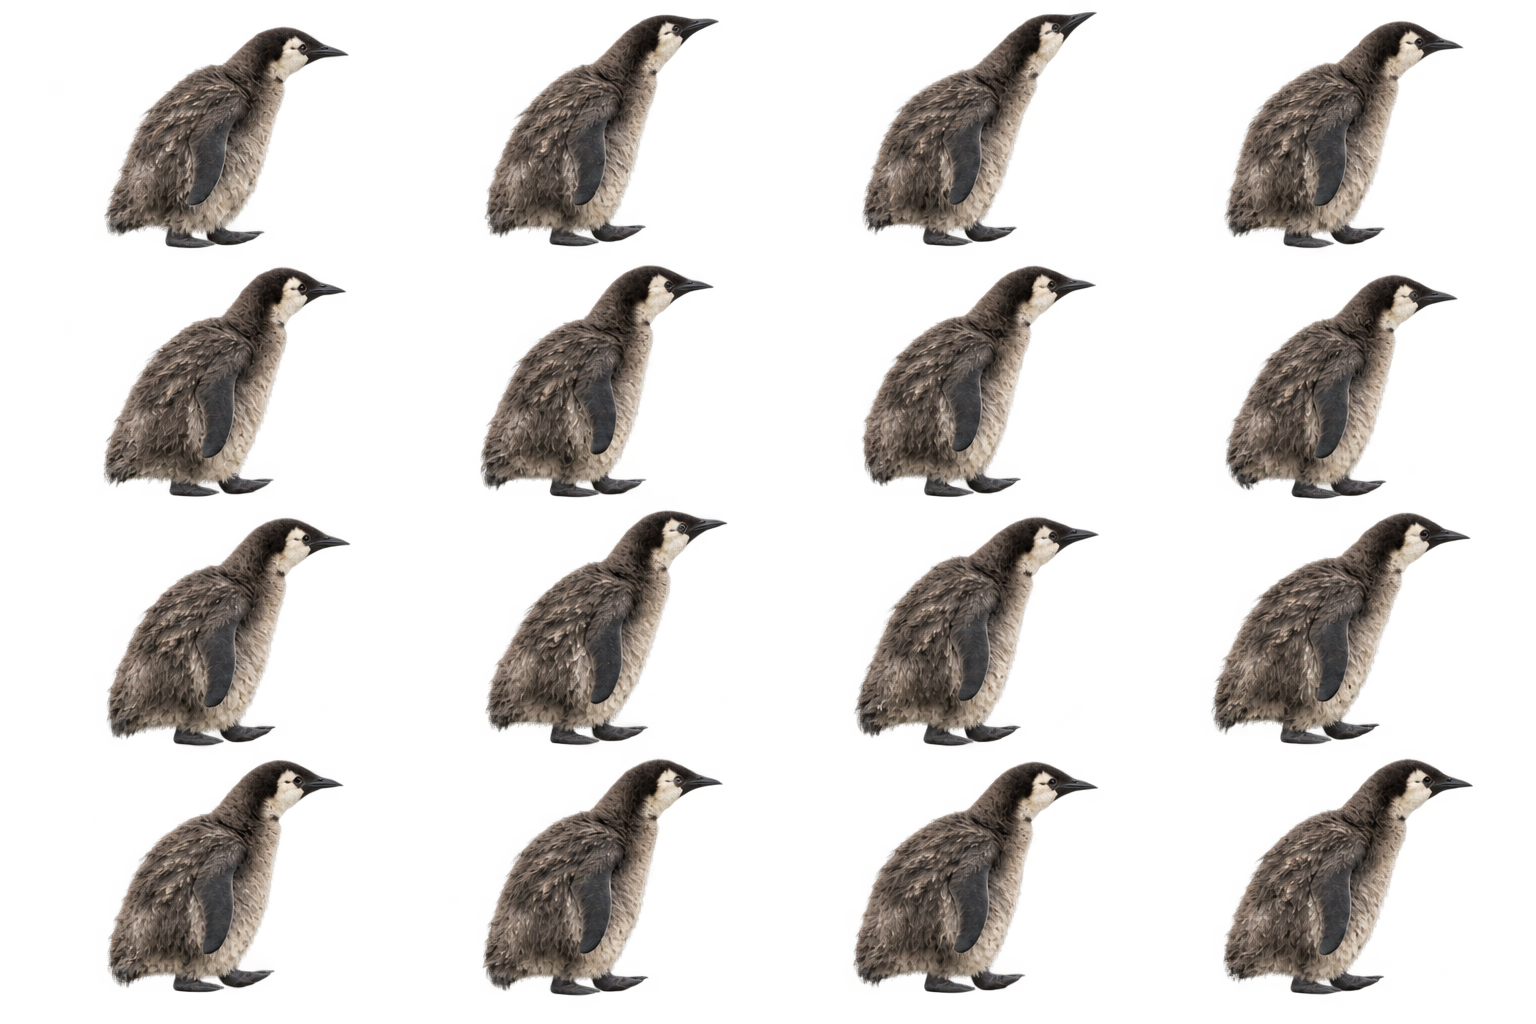
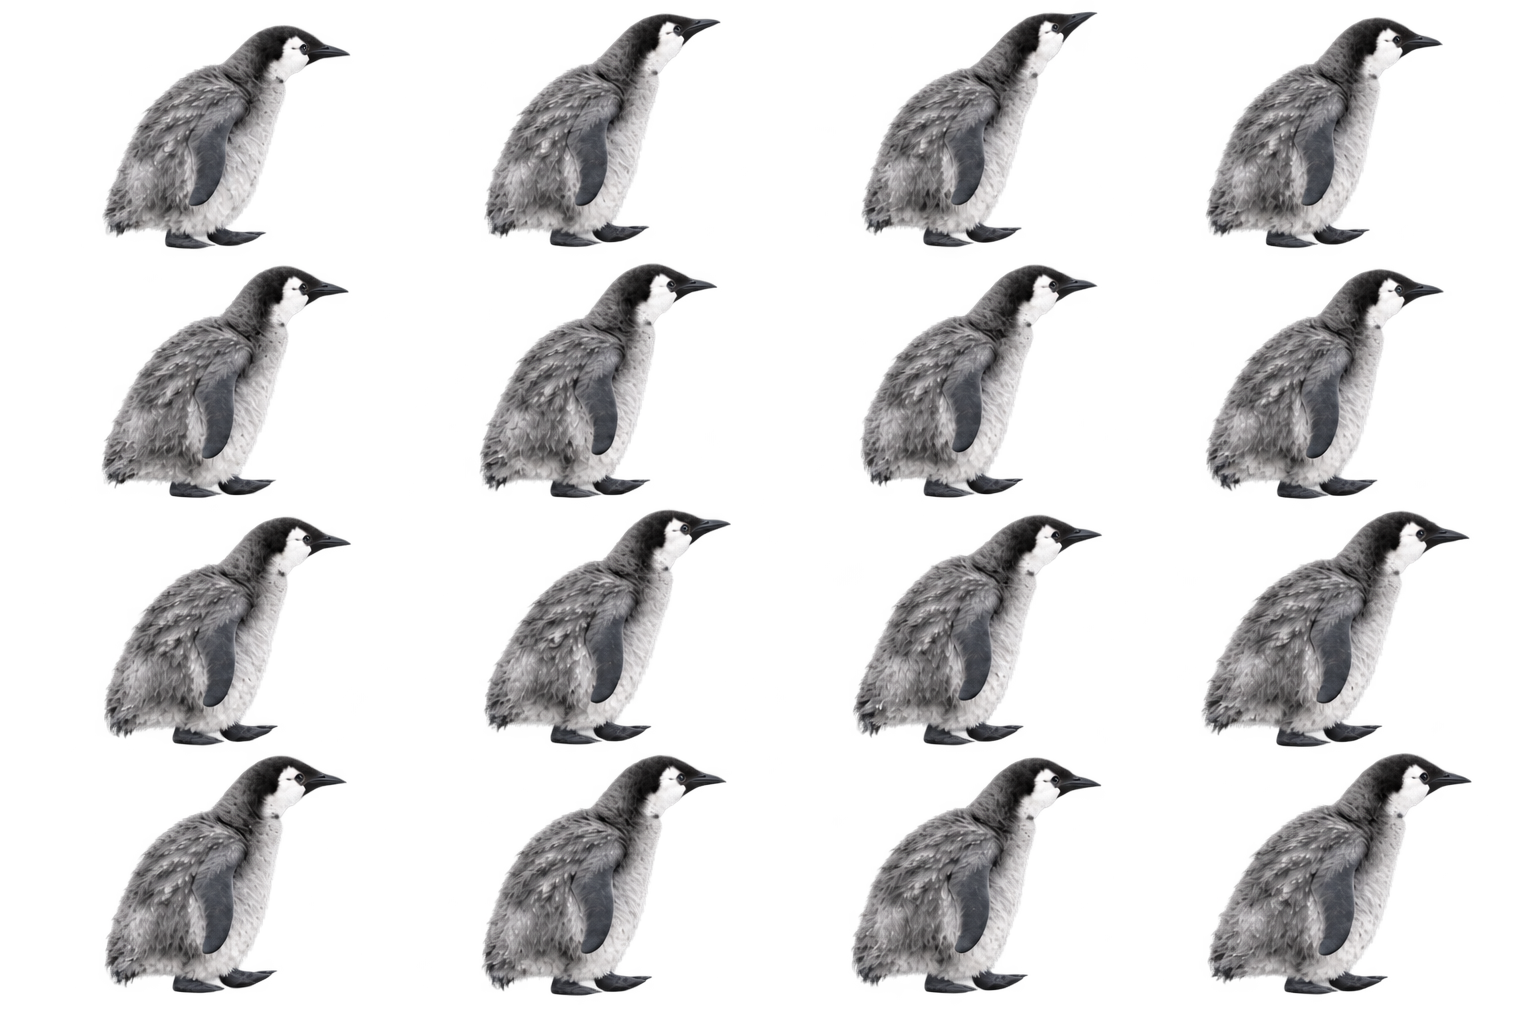
Restore original silver gray penguin palette without changing natural anatomy

diff --git a/lib/widgets/login_penguin_walker.dart b/lib/widgets/login_penguin_walker.dart
@@ -330,7 +330,7 @@ class _NaturalLoginPainter extends CustomPainter {
   final bool quiet, compact;
   final LoginHabitatScene scene;
   Color get tint => scene.period == 'night'
-      ? const Color(0xFF526478)
+      ? const Color(0xFF8A9FBC)
       : scene.period == 'evening'
           ? const Color(0xFFFFE6D0)
           : const Color(0xFFF3F7FC);

diff --git a/docs/login-penguin-walking.md b/docs/login-penguin-walking.md
@@ -41,3 +41,8 @@ Android installation cannot receive bundled artwork through a server-only change
 The revised chick (1.0.26+33) has smaller natural eyes, a narrower head,
 scaly feet and irregular down feathers rather than smooth plush proportions.
 Its new walking and quiet sheets are separate from the branch chick assets.
+
+Color preservation (1.0.27+34): the detailed login chick retains the original
+light silver-gray down, white cheek/belly and black crown, beak and feet.
+The brown cast introduced with the anatomy revision is removed. Scene tinting
+uses the original login lighting palette.
